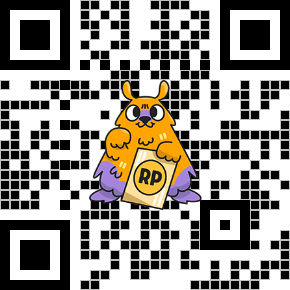
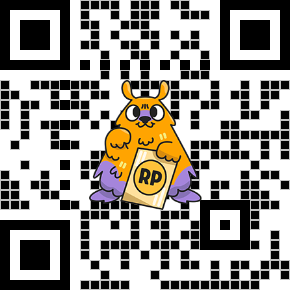
Saweria

diff --git a/index.html b/index.html
@@ -280,16 +280,16 @@
         <div class="col-md-6">
           <ul class="list-group">
             <li class="list-group-item">
-              <div class="fw-bold">BCA</div>
-              123456789 - awkaowkaowkoa
+              <div class="fw-bold">MANDIRI</div>
+              1300025559389 - RIKA INDRA NURWATI
             </li>
             <li class="list-group-item">
               <div class="fw-bold">MANDIRI</div>
-              987654321 - awoakwoawk
+              1300018780943 - RIZAL MUHAMAD RAMDHA
             </li>
             <li class="list-group-item">
-              <div class="fw-bold">QRis</div>
-              <img src="img/qrcode_.png" alt="Saweria QR" class="img-thumbnail" width="150">
+              <div class="fw-bold">Saweria</div>
+              <img src="img/saweria.png" alt="Saweria QR" class="img-thumbnail" width="150">
             </li>
           </ul>
         </div>
